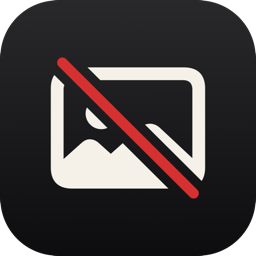
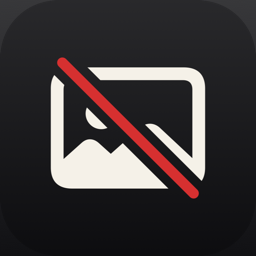
fixes

diff --git a/index.html b/index.html
@@ -280,7 +280,7 @@
                 data-browser-title-ja="Shadan"
                 aria-label="Open Shadan"
               >
-                <img class="stack-product-icon-bordered" src="assets/shadan-icon-home.png?v=1" alt="Shadan app icon">
+                <img class="stack-product-icon-bordered" src="assets/shadan-icon-home.png?v=2" alt="Shadan app icon">
               </a>
               <div class="stack-product-copy">
                 <strong class="stack-product-name">Shadan:</strong>
